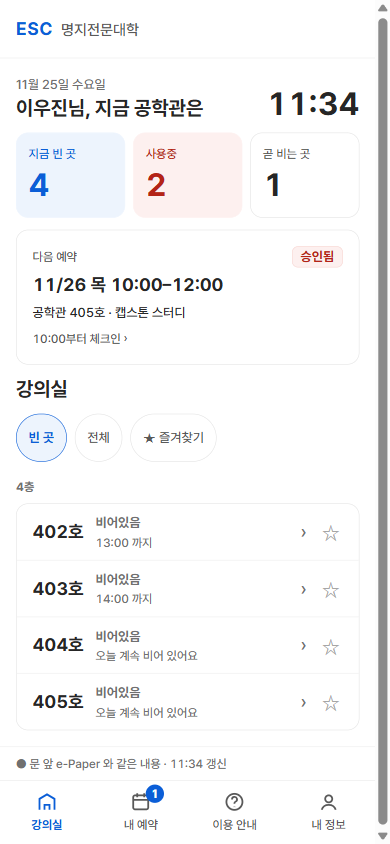
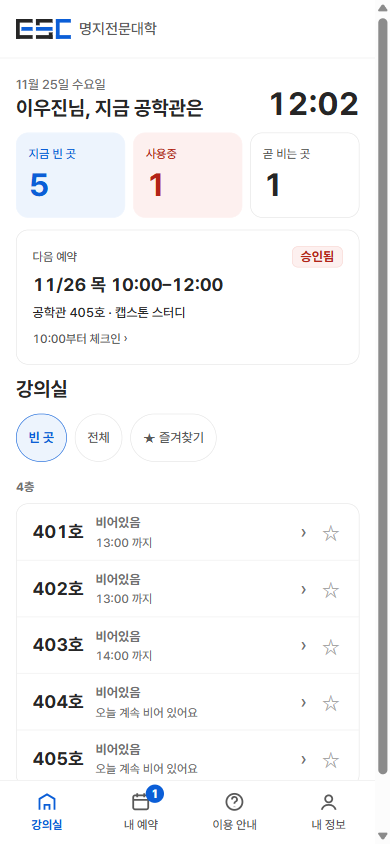
style(web): 학생 앱 — 이용 안내는 넘겨도 칸이 고정, 왼쪽 위 ESC 글자를 로고로, 학교명은 로고 바닥선 · xs
- 이용 안내: 다섯 장의 사진 · 글을 각각 한 칸에 겹쳐 지금 장만 보인다 — 칸 높이가 가장 큰 사진 · 가장 긴 글로 고정돼 이전 · 다음 · 점이 제자리. 넘길 때 'N단계, 제목' 한 줄을 aria-live 로
- 위 막대 · 폰 머리말의 ESC 글자 → esc-logo.svg(55×20), 학교명은 font.size.xs · 로고 바닥선
- 안내 1장 사진을 로고가 들어간 화면으로 다시 찍음
- student-room.md 「학생 앱 메뉴 · 이용 안내」 갱신

diff --git a/web/src/student/views/GuideView.vue b/web/src/student/views/GuideView.vue
@@ -45,15 +45,26 @@ function up(e: PointerEvent) {
 
       <!-- 사진을 옆으로 밀면 넘긴다 — 세로 스크롤은 그대로(touch-action: pan-y) -->
       <figure class="gd__figure" @pointerdown="down" @pointerup="up" @pointercancel="start = null">
-        <div class="gd__frame" :class="`gd__frame--${step.frame}`">
-          <img
-            class="gd__img"
-            :src="step.img"
-            :alt="step.alt"
-            :width="step.frame === 'door' ? 800 : 390"
-            :height="step.frame === 'door' ? 480 : 844"
-            draggable="false"
-          />
+        <!-- 다섯 장을 한 칸에 겹쳐 두고 지금 장만 보인다 — 칸 높이가 가장 큰 사진에 맞춰 고정돼 넘겨도 출렁이지 않는다
+             (사진도 미리 받아 두어 넘길 때 깜빡이지 않는다) -->
+        <div class="gd__stage">
+          <div
+            v-for="(s, i) in GUIDE_STEPS"
+            :key="s.short"
+            class="gd__shot"
+            :class="{ 'gd__shot--on': i === cur }"
+          >
+            <div class="gd__frame" :class="`gd__frame--${s.frame}`">
+              <img
+                class="gd__img"
+                :src="s.img"
+                :alt="s.alt"
+                :width="s.frame === 'door' ? 800 : 390"
+                :height="s.frame === 'door' ? 480 : 844"
+                draggable="false"
+              />
+            </div>
+          </div>
         </div>
         <div class="gd__dots">
           <button
@@ -70,15 +81,28 @@ function up(e: PointerEvent) {
         <figcaption class="gd__swipe">옆으로 밀면 다음 장</figcaption>
       </figure>
 
-      <section class="gd__text" aria-live="polite">
+      <section class="gd__text">
         <p class="gd__count num">{{ cur + 1 }} / {{ GUIDE_STEPS.length }} · {{ step.chapter }}</p>
-        <h2 class="gd__title">{{ step.title }}</h2>
-        <p class="gd__desc">{{ step.desc }}</p>
-        <ul class="gd__tips">
-          <li v-for="t in step.tips" :key="t">
-            <svg aria-hidden="true" viewBox="0 0 14 14"><path d="M2.5 7.5l3 3 6-7" /></svg>{{ t }}
-          </li>
-        </ul>
+        <!-- 글도 다섯 장을 겹친다 — 가장 긴 글의 높이로 고정돼 이전 · 다음 버튼이 움직이지 않는다 -->
+        <div class="gd__slides">
+          <div
+            v-for="(s, i) in GUIDE_STEPS"
+            :key="s.short"
+            class="gd__slide"
+            :class="{ 'gd__slide--on': i === cur }"
+          >
+            <h2 class="gd__title">{{ s.title }}</h2>
+            <p class="gd__desc">{{ s.desc }}</p>
+            <ul class="gd__tips">
+              <li v-for="t in s.tips" :key="t">
+                <svg aria-hidden="true" viewBox="0 0 14 14"><path d="M2.5 7.5l3 3 6-7" /></svg
+                >{{ t }}
+              </li>
+            </ul>
+          </div>
+        </div>
+        <!-- 숨은 장은 읽히지 않는다(visibility) — 넘길 때 바뀐 장을 이 한 줄로 알린다 -->
+        <p class="gd__live" aria-live="polite">{{ cur + 1 }}단계, {{ step.title }}</p>
         <div class="gd__nav">
           <Button variant="secondary" :disabled="cur === 0" @click="go(cur - 1)">이전</Button>
           <Button class="gd__next" @click="next">{{ cur === last ? '처음으로' : '다음' }}</Button>
@@ -197,6 +221,39 @@ function up(e: PointerEvent) {
   display: block;
   width: 100%;
   height: auto;
+}
+/* 겹친 칸 — 모든 장이 같은 격자 칸(1/1)에 있고 지금 장만 visible */
+.gd__stage,
+.gd__slides {
+  display: grid;
+  width: 100%;
+}
+.gd__shot,
+.gd__slide {
+  grid-area: 1 / 1;
+  visibility: hidden;
+}
+.gd__shot {
+  display: flex;
+  align-items: center;
+  justify-content: center;
+}
+.gd__slide {
+  display: flex;
+  flex-direction: column;
+  gap: var(--space-3);
+}
+.gd__shot--on,
+.gd__slide--on {
+  visibility: visible;
+}
+.gd__live {
+  position: absolute;
+  width: 1px;
+  height: 1px;
+  overflow: hidden;
+  clip-path: inset(50%);
+  white-space: nowrap;
 }
 .gd__dots {
   display: flex;

diff --git a/web/src/student/views/BuildingLayout.vue b/web/src/student/views/BuildingLayout.vue
@@ -17,6 +17,7 @@ import Banner from '@/components/ui/Banner.vue'
 import Button from '@/components/ui/Button.vue'
 import EmptyState from '@/components/ui/EmptyState.vue'
 import Select from '@/components/ui/Select.vue'
+import logo from '@/assets/logo/esc-logo.svg'
 import Skeleton from '@/components/ui/Skeleton.vue'
 import { session } from '@/lib/session'
 import { formatHm, kstDateStr, kstMinutes } from '@/lib/time'
@@ -126,7 +127,9 @@ const pickBuilding = (v: string | number) => void router.push(`/${v}`)
     <section class="split__list" aria-label="강의실 목록">
       <header v-if="!wide" class="top">
         <span class="top__brand"
-          ><b>ESC</b><template v-if="school !== 'ESC'">{{ school }}</template></span
+          ><img :src="logo" alt="ESC" width="55" height="20" /><template v-if="school !== 'ESC'">{{
+            school
+          }}</template></span
         >
         <Select
           v-if="options.length > 1"
@@ -286,7 +289,7 @@ const pickBuilding = (v: string | number) => void router.push(`/${v}`)
   box-sizing: border-box;
   background: var(--surface);
 }
-/* 폰 머리말 — ESC · 학교 · 건물 선택 */
+/* 폰 머리말 — ESC 로고 · 학교 · 건물 선택 */
 .top {
   display: flex;
   align-items: center;
@@ -299,17 +302,18 @@ const pickBuilding = (v: string | number) => void router.push(`/${v}`)
   flex: 1;
   min-width: 0;
   display: flex;
-  align-items: baseline;
+  /* 학교명은 로고 바닥선에 붙인다 */
+  align-items: flex-end;
+  line-height: 1;
+  font-size: var(--font-size-xs);
   gap: var(--space-2);
   overflow: hidden;
   color: var(--text-2);
   white-space: nowrap;
   text-overflow: ellipsis;
 }
-.top__brand b {
-  font-size: var(--font-size-lg);
-  letter-spacing: 0.04em;
-  color: var(--brand);
+.top__brand img {
+  flex: none;
 }
 .top__bld {
   flex: none;

diff --git a/web/src/student/StudentNav.vue b/web/src/student/StudentNav.vue
@@ -2,6 +2,7 @@
 import { computed, inject } from 'vue'
 import { RouterLink, useRoute } from 'vue-router'
 import { activeCount } from '@/components/student/rules'
+import logo from '@/assets/logo/esc-logo.svg'
 import { schoolTitle } from '@/lib/session'
 import { MINE } from './building'
 import { useNow } from './composables'
@@ -41,7 +42,11 @@ const items = computed(() => [
 <template>
   <!-- 넓은 폭 위 막대 — 오른쪽 끝 자리(#esc-nav-bld)에 건물 안 화면이 건물 선택을 보낸다 -->
   <header class="nav__top">
-    <span class="nav__brand"><b>ESC</b>{{ schoolTitle === 'ESC' ? '' : schoolTitle }}</span>
+    <span class="nav__brand"
+      ><img :src="logo" alt="ESC" width="55" height="20" />{{
+        schoolTitle === 'ESC' ? '' : schoolTitle
+      }}</span
+    >
     <nav aria-label="학생 메뉴" class="nav__toplinks">
       <RouterLink
         v-for="i in items"
@@ -106,15 +111,16 @@ const items = computed(() => [
 }
 .nav__brand {
   display: flex;
-  align-items: baseline;
+  /* 학교명은 로고 바닥선에 붙인다 */
+  align-items: flex-end;
+  line-height: 1;
+  font-size: var(--font-size-xs);
   gap: var(--space-2);
   color: var(--text-2);
   white-space: nowrap;
 }
-.nav__brand b {
-  font-size: var(--font-size-lg);
-  letter-spacing: 0.04em;
-  color: var(--brand);
+.nav__brand img {
+  flex: none;
 }
 .nav__toplinks {
   display: flex;

diff --git a/web/src/student/__tests__/building.spec.ts b/web/src/student/__tests__/building.spec.ts
@@ -119,7 +119,7 @@ describe('BuildingLayout — /:bld 강의실 목록', () => {
       name: '김민준',
     })
     const { w } = await mountAt(BuildingLayout, '/E', '/:bld')
-    expect(w.get('.top').text()).toContain('ESC')
+    expect(w.get('.top img').attributes('alt')).toBe('ESC') // 로고 (logo.md)
     expect(w.get('.top').text()).toContain('명지전문대학')
     expect(w.find('.top select').exists()).toBe(true)
     expect(w.get('.hello').text()).toContain('10월 23일 금요일')

diff --git a/web/src/student/__tests__/nav.spec.ts b/web/src/student/__tests__/nav.spec.ts
@@ -68,6 +68,7 @@ describe('StudentNav — 메뉴 넷 (student-room.md 「학생 앱 메뉴」)', 
     expect(links(w, '.nav__top')).toEqual(expected)
     expect(w.get('.nav__tabs .nav__badge').text()).toBe('2')
     expect(w.get('.nav__top').text()).toContain('명지전문대학')
+    expect(w.get('.nav__brand img').attributes('alt')).toBe('ESC')
   })
 
   it('건물 밖 — 마지막 건물로, 없으면 / · /me. 건수 0 이면 배지 없음', async () => {

diff --git a/docs/design/screens/student-room.md b/docs/design/screens/student-room.md
@@ -410,14 +410,14 @@ POST /api/student/rooms/{id}/reservations
 
 - **폰(`bp.mobile`)** — 화면 아래 고정 탭 64px(+ 기기 아래 여백 `safe-area`). 아이콘 22px 위 + 이름 `font.size.xs` 아래. 지금 메뉴는 `brand` 글자 · 아이콘 · 700, 나머지 `text.2`. `aria-current="page"`.
   - **탭은 첫 화면들에만** — `/` · `/{bld}` · 내 예약 · 이용 안내 · 내 정보. 강의실 · 이번 주 · 예약 신청은 `‹` 로 돌아가는 상세 화면이고 하단에 `이 강의실 예약하기` · `예약하기` 고정 바가 있어 탭을 두지 않는다(바 두 줄이 겹친다).
-- **넓은 폭(`bp.tablet` 이상)** — 화면 위 64px 막대, 모든 학생 화면에. 왼쪽 `ESC` 글자 + 학교 이름, 메뉴 넷(지금 메뉴는 `brand` 3px 밑줄), 오른쪽 끝에 건물 선택(건물 안에서, 둘 이상일 때). 막대는 위에 붙어 있고(sticky) 왼쪽 목록 칸은 그 아래부터 화면 끝까지다.
+- **넓은 폭(`bp.tablet` 이상)** — 화면 위 64px 막대, 모든 학생 화면에. 왼쪽 ESC 로고(`esc-logo.svg`, 55×20 — [logo.md](../logo.md)) + 학교 이름(`font.size.xs`, `text.2`, 로고 바닥선에 붙인다), 메뉴 넷(지금 메뉴는 `brand` 3px 밑줄), 오른쪽 끝에 건물 선택(건물 안에서, 둘 이상일 때). 막대는 위에 붙어 있고(sticky) 왼쪽 목록 칸은 그 아래부터 화면 끝까지다.
 - 로그아웃은 `내 정보` 로 옮긴다. 목록 하단과 넓은 폭 왼쪽 칸 바닥의 `로그아웃` 은 없앤다(갱신 줄만 남는다). 건물 선택(`/`) 화면의 `로그아웃` 도 없앤다.
 
 ### 목록(`/{bld}`) — 폰
 
 ```
 ┌─────────────────────────────────┐
-│ ESC 명지전문대학        [공학관▾]│  ← 머리말
+│ [로고] 명지전문대학     [공학관▾]│  ← 머리말
 │ 11월 25일 수요일                 │
 │ 이우진님, 지금 공학관은     10:51│  ← 인사 + 지금 시각
 │ [지금 빈 곳 3][사용중 2][곧 비는 곳 1]│ ← 숫자 칸 셋
@@ -430,7 +430,7 @@ POST /api/student/rooms/{id}/reservations
 └─────────────────────────────────┘
 ```
 
-- **머리말** — `ESC`(`brand`, 700) + 학교 이름(`text.2`) + 오른쪽 건물 선택. 옛 내 정보 줄(이름 원 · `내 예약` 링크)을 대신한다.
+- **머리말** — ESC 로고(`esc-logo.svg`, 55×20) + 학교 이름(`font.size.xs`, `text.2`, 로고 바닥선에 붙인다) + 오른쪽 건물 선택. 옛 내 정보 줄(이름 원 · `내 예약` 링크)을 대신한다.
 - **인사 줄** — 날짜(`text.3`) 아래 `{이름}님, 지금 {건물}은`(`font.size.xl` 700), 오른쪽 지금 시각(`HH:MM`, 큰 숫자 700). 이름이 없는 옛 세션이면 `지금 {건물}은`.
 - **숫자 칸 셋** — 이 건물 강의실만 센다. 누르는 칸이 아니다(보기는 칩이 바꾼다).
 
@@ -463,9 +463,10 @@ POST /api/student/rooms/{id}/reservations
 
 - **넘기기** — `이전` · `다음`(마지막 장은 `처음으로`) 버튼, 사진 아래 점(지금 장은 길게), 단계 목록. 폰은 사진을 옆으로 밀어도(스와이프 50px 이상) 넘어간다. 키보드는 버튼 · 단계 목록으로.
 - **폭에 따라 접힌다(깨지지 않게)** — 넓으면 왼쪽 단계 목록(번호 원 + 짧은 이름) · 가운데 사진 · 오른쪽 설명 3열. 좁아지면 단계 목록이 위쪽 가로 칩 줄(넘치면 옆으로 밀림)이 되고, 설명은 사진 옆, 더 좁으면 사진 아래로 내려간다. 사진은 칸 폭을 넘지 않고 비율을 지킨다(폰 화면 사진 최대 260px, e-Paper 사진 최대 560px).
+- **넘겨도 칸이 출렁이지 않는다** — 다섯 장의 사진을 한 칸에, 글(제목 · 설명 · 팁)을 한 칸에 겹쳐 두고 지금 장만 보인다. 칸 높이가 가장 큰 사진 · 가장 긴 글에 맞춰 고정돼 `이전` · `다음` 버튼과 점이 제자리에 있다(폭이 바뀌어도 같은 규칙). 사진은 미리 받아 두어 깜빡이지 않는다. 숨은 장은 읽히지 않고, 넘길 때 `2단계, {제목}` 한 줄이 `aria-live` 로 읽힌다.
 - 사진 틀: 폰 화면은 `gray.800` 6px 테두리 + 18px 둥근 모서리, e-Paper 는 `gray.800` 10px 테두리 — 기기처럼 보이게.
 - 설명 문장은 정보 나열이 아니라 사람이 건네는 말투다 — 결론을 앞에 두거나 짧은 문장을 섞는다(사용자 문장 가이드).
-- 지금 장 문장은 `aria-live="polite"` 로 읽힌다. 사진에는 그 화면을 말하는 `alt`.
+- 사진에는 그 화면을 말하는 `alt`.
 - 화면이 바뀌면 사진도 다시 찍는다 — 사진은 `web/src/assets/guide/`.
 
 ### 내 정보 — `/account`
